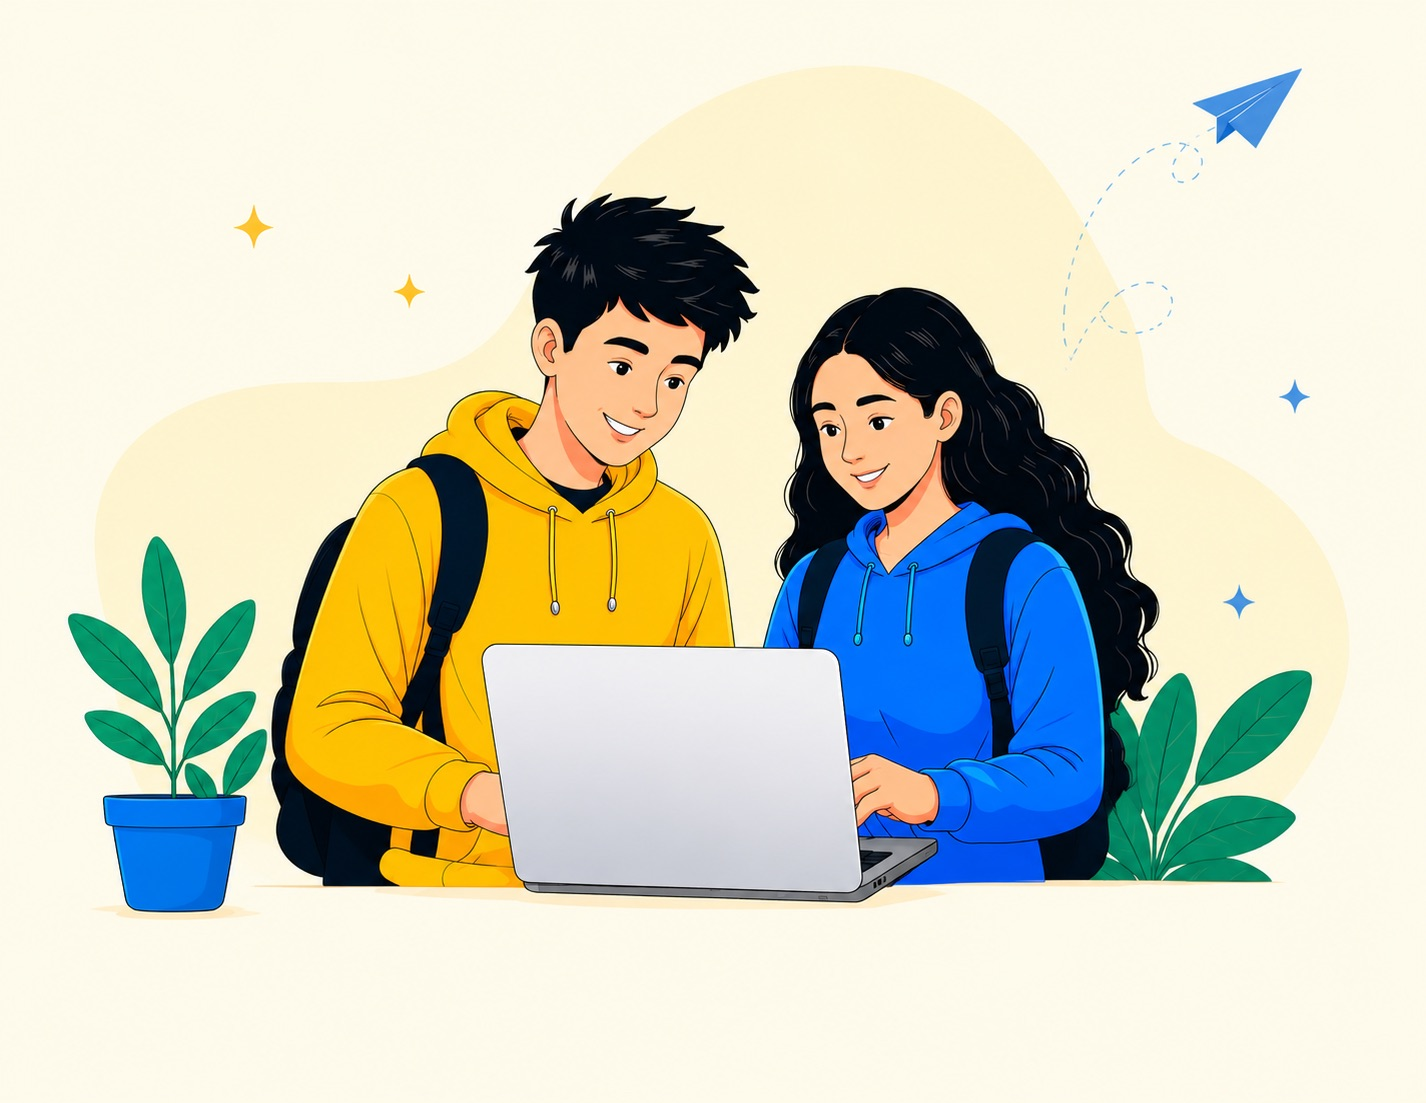
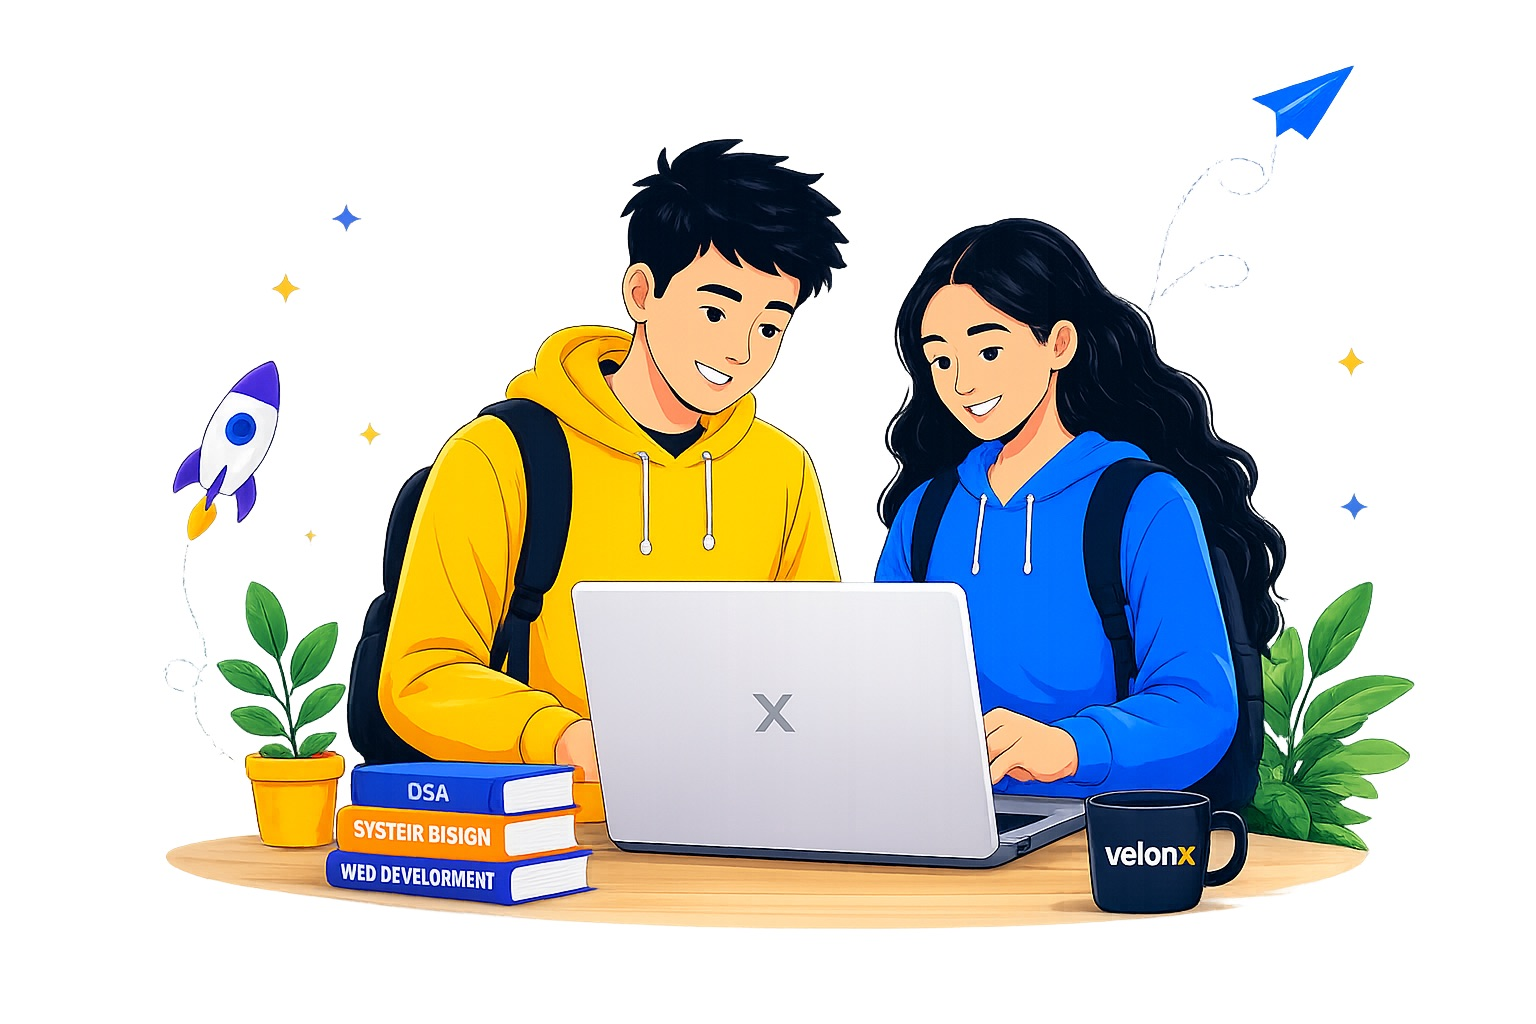
feat: redesign hero section with animated floating feature cards and decorative background orbs

diff --git a/src/app/page.tsx b/src/app/page.tsx
@@ -210,7 +210,7 @@ export default function Home() {
             {/* ==================== 1. HERO SECTION ==================== */}
             <header className="relative pt-28 pb-16 md:pt-36 md:pb-24 flex items-center justify-center z-10 overflow-hidden">
                 <MeshGradientHero />
-                <div className="container mx-auto px-6 max-w-7xl grid grid-cols-1 lg:grid-cols-[1fr_1.45fr] gap-10 items-center relative z-10">
+                <div className="container mx-auto px-6 max-w-7xl grid grid-cols-1 lg:grid-cols-[1fr_1.7fr] gap-10 items-center relative z-10">
                     {/* Left: Content */}
                     <motion.div
                         initial={{ opacity: 0, y: 36 }}
@@ -328,14 +328,144 @@ export default function Home() {
                         transition={{ duration: 0.9, delay: 0.15, ease: [0.22, 1, 0.36, 1] }}
                         className="relative w-full flex items-center justify-center select-none"
                     >
-                        <Image
-                            src="/hero.jpeg"
-                            alt="Students building projects and growing their careers with Velonx"
-                            width={720}
-                            height={540}
-                            priority
-                            className="w-full max-w-145 lg:max-w-160 h-auto object-contain rounded-2xl"
+
+
+                        {/* Decorative blur orbs */}
+                        <motion.div
+                            className="absolute -top-10 -right-10 w-40 h-40 rounded-full bg-[#226ce0]/10 blur-3xl pointer-events-none"
+                            animate={{ scale: [1, 1.15, 1], opacity: [0.4, 0.6, 0.4] }}
+                            transition={{ duration: 5, repeat: Infinity, ease: "easeInOut" }}
                         />
+                        <motion.div
+                            className="absolute -bottom-8 -left-8 w-36 h-36 rounded-full bg-[#f0771a]/10 blur-3xl pointer-events-none"
+                            animate={{ scale: [1, 1.2, 1], opacity: [0.3, 0.5, 0.3] }}
+                            transition={{ duration: 6, repeat: Infinity, ease: "easeInOut", delay: 1 }}
+                        />
+
+                        <Image
+                            src="/hero.png"
+                            alt="Students building projects and growing their careers with Velonx"
+                            width={900}
+                            height={675}
+                            priority
+                            className="w-full h-auto object-contain rounded-2xl relative z-[1] drop-shadow-[0_8px_30px_rgba(34,108,224,0.12)]"
+                        />
+
+
+                        {/* Floating Cards with SVG icons */}
+                        {[
+                            {
+                                icon: (
+                                    <svg viewBox="0 0 24 24" className="w-4 h-4" fill="none" stroke="#226ce0" strokeWidth="2" strokeLinecap="round" strokeLinejoin="round">
+                                        <path d="M22 10v6M2 10l10-5 10 5-10 5z" />
+                                        <path d="M6 12v5c0 1.1 2.7 3 6 3s6-1.9 6-3v-5" />
+                                    </svg>
+                                ),
+                                iconBg: "bg-blue-100 dark:bg-blue-900/40",
+                                title: "Mentorship",
+                                desc: "Learn from industry mentors",
+                                position: "top-[3%] left-[-2%]",
+                                delay: 0.3,
+                                float: "animate-[floatY_4s_ease-in-out_infinite]",
+                            },
+                            {
+                                icon: (
+                                    <svg viewBox="0 0 24 24" className="w-4 h-4" fill="none" stroke="#f59e0b" strokeWidth="2" strokeLinecap="round" strokeLinejoin="round">
+                                        <path d="M6 9H4.5a2.5 2.5 0 0 1 0-5C7 4 7 7 7 7" />
+                                        <path d="M18 9h1.5a2.5 2.5 0 0 0 0-5C17 4 17 7 17 7" />
+                                        <path d="M4 22h16" />
+                                        <path d="M10 14.66V17c0 .55-.47.98-.97 1.21C7.85 18.75 7 20.24 7 22" />
+                                        <path d="M14 14.66V17c0 .55.47.98.97 1.21C16.15 18.75 17 20.24 17 22" />
+                                        <path d="M18 2H6v7a6 6 0 0 0 12 0V2Z" />
+                                    </svg>
+                                ),
+                                iconBg: "bg-amber-100 dark:bg-amber-900/40",
+                                title: "Hackathons",
+                                desc: "Compete. Build. Win.",
+                                position: "top-[-4%] left-[30%]",
+                                delay: 0.5,
+                                float: "animate-[floatY_5s_ease-in-out_0.5s_infinite]",
+                            },
+                            {
+                                icon: (
+                                    <svg viewBox="0 0 24 24" className="w-4 h-4" fill="none" stroke="#8b5cf6" strokeWidth="2" strokeLinecap="round" strokeLinejoin="round">
+                                        <path d="M16 21v-2a4 4 0 0 0-4-4H6a4 4 0 0 0-4 4v2" />
+                                        <circle cx="9" cy="7" r="4" />
+                                        <path d="M22 21v-2a4 4 0 0 0-3-3.87" />
+                                        <path d="M16 3.13a4 4 0 0 1 0 7.75" />
+                                    </svg>
+                                ),
+                                iconBg: "bg-purple-100 dark:bg-purple-900/40",
+                                title: "Community",
+                                desc: "Connect. Share. Grow.",
+                                position: "bottom-[28%] left-[-3%]",
+                                delay: 0.7,
+                                float: "animate-[floatY_4.5s_ease-in-out_1s_infinite]",
+                            },
+                            {
+                                icon: (
+                                    <svg viewBox="0 0 24 24" className="w-4 h-4" fill="none" stroke="#10b981" strokeWidth="2" strokeLinecap="round" strokeLinejoin="round">
+                                        <polyline points="16 18 22 12 16 6" />
+                                        <polyline points="8 6 2 12 8 18" />
+                                        <line x1="14" y1="4" x2="10" y2="20" />
+                                    </svg>
+                                ),
+                                iconBg: "bg-emerald-100 dark:bg-emerald-900/40",
+                                title: "Projects",
+                                desc: "Build real-world projects",
+                                position: "top-[25%] right-[-8%]",
+                                delay: 0.9,
+                                float: "animate-[floatY_5.5s_ease-in-out_0.3s_infinite]",
+                            },
+                            {
+                                icon: (
+                                    <svg viewBox="0 0 24 24" className="w-4 h-4" fill="none" stroke="#0ea5e9" strokeWidth="2" strokeLinecap="round" strokeLinejoin="round">
+                                        <rect x="2" y="7" width="20" height="14" rx="2" ry="2" />
+                                        <path d="M16 21V5a2 2 0 0 0-2-2h-4a2 2 0 0 0-2 2v16" />
+                                    </svg>
+                                ),
+                                iconBg: "bg-sky-100 dark:bg-sky-900/40",
+                                title: "Internships",
+                                desc: "Find the right opportunities",
+                                position: "bottom-[8%] right-[-3%]",
+                                delay: 1.1,
+                                float: "animate-[floatY_4.8s_ease-in-out_0.7s_infinite]",
+                            },
+                            {
+                                icon: (
+                                    <svg viewBox="0 0 24 24" className="w-4 h-4" fill="none" stroke="#f0771a" strokeWidth="2" strokeLinecap="round" strokeLinejoin="round">
+                                        <path d="M4 19.5v-15A2.5 2.5 0 0 1 6.5 2H20v20H6.5a2.5 2.5 0 0 1 0-5H20" />
+                                        <path d="M9 10l2 2 4-4" />
+                                    </svg>
+                                ),
+                                iconBg: "bg-orange-100 dark:bg-orange-900/40",
+                                title: "Resources",
+                                desc: "Learn & get certified",
+                                position: "top-[-4%] right-[-3%]",
+                                delay: 1.3,
+                                float: "animate-[floatY_5.2s_ease-in-out_0.4s_infinite]",
+                            },
+                        ].map((card) => (
+                            <motion.div
+                                key={card.title}
+                                initial={{ opacity: 0, scale: 0.7, y: 20 }}
+                                animate={{ opacity: 1, scale: 1, y: 0 }}
+                                transition={{
+                                    duration: 0.6,
+                                    delay: card.delay,
+                                    type: "spring",
+                                    stiffness: 180,
+                                    damping: 14,
+                                }}
+                                className={`absolute ${card.position} ${card.float} z-20 hidden lg:flex flex-col items-center gap-1.5 px-3 py-3 rounded-xl bg-white/90 dark:bg-[#1a1a2e]/90 backdrop-blur-md border border-white/60 dark:border-white/10 shadow-md shadow-black/5 text-center`}
+                            >
+                                <div className={`w-7 h-7 rounded-md ${card.iconBg} flex items-center justify-center shrink-0`}>
+                                    {card.icon}
+                                </div>
+                                <p className="text-[11px] font-bold text-[#1A234A] dark:text-white leading-tight">{card.title}</p>
+                                <p className="text-[9px] text-muted-foreground leading-tight max-w-[90px]">{card.desc}</p>
+                            </motion.div>
+                        ))}
                     </motion.div>
                 </div>
             </header>

diff --git a/src/app/globals.css b/src/app/globals.css
@@ -388,6 +388,15 @@
     animation: float 3s ease-in-out infinite;
 }
 
+@keyframes floatY {
+    0%, 100% {
+        transform: translateY(0);
+    }
+    50% {
+        transform: translateY(-12px);
+    }
+}
+
 .animate-float-slow {
     animation: float-slow 5s ease-in-out infinite;
 }
